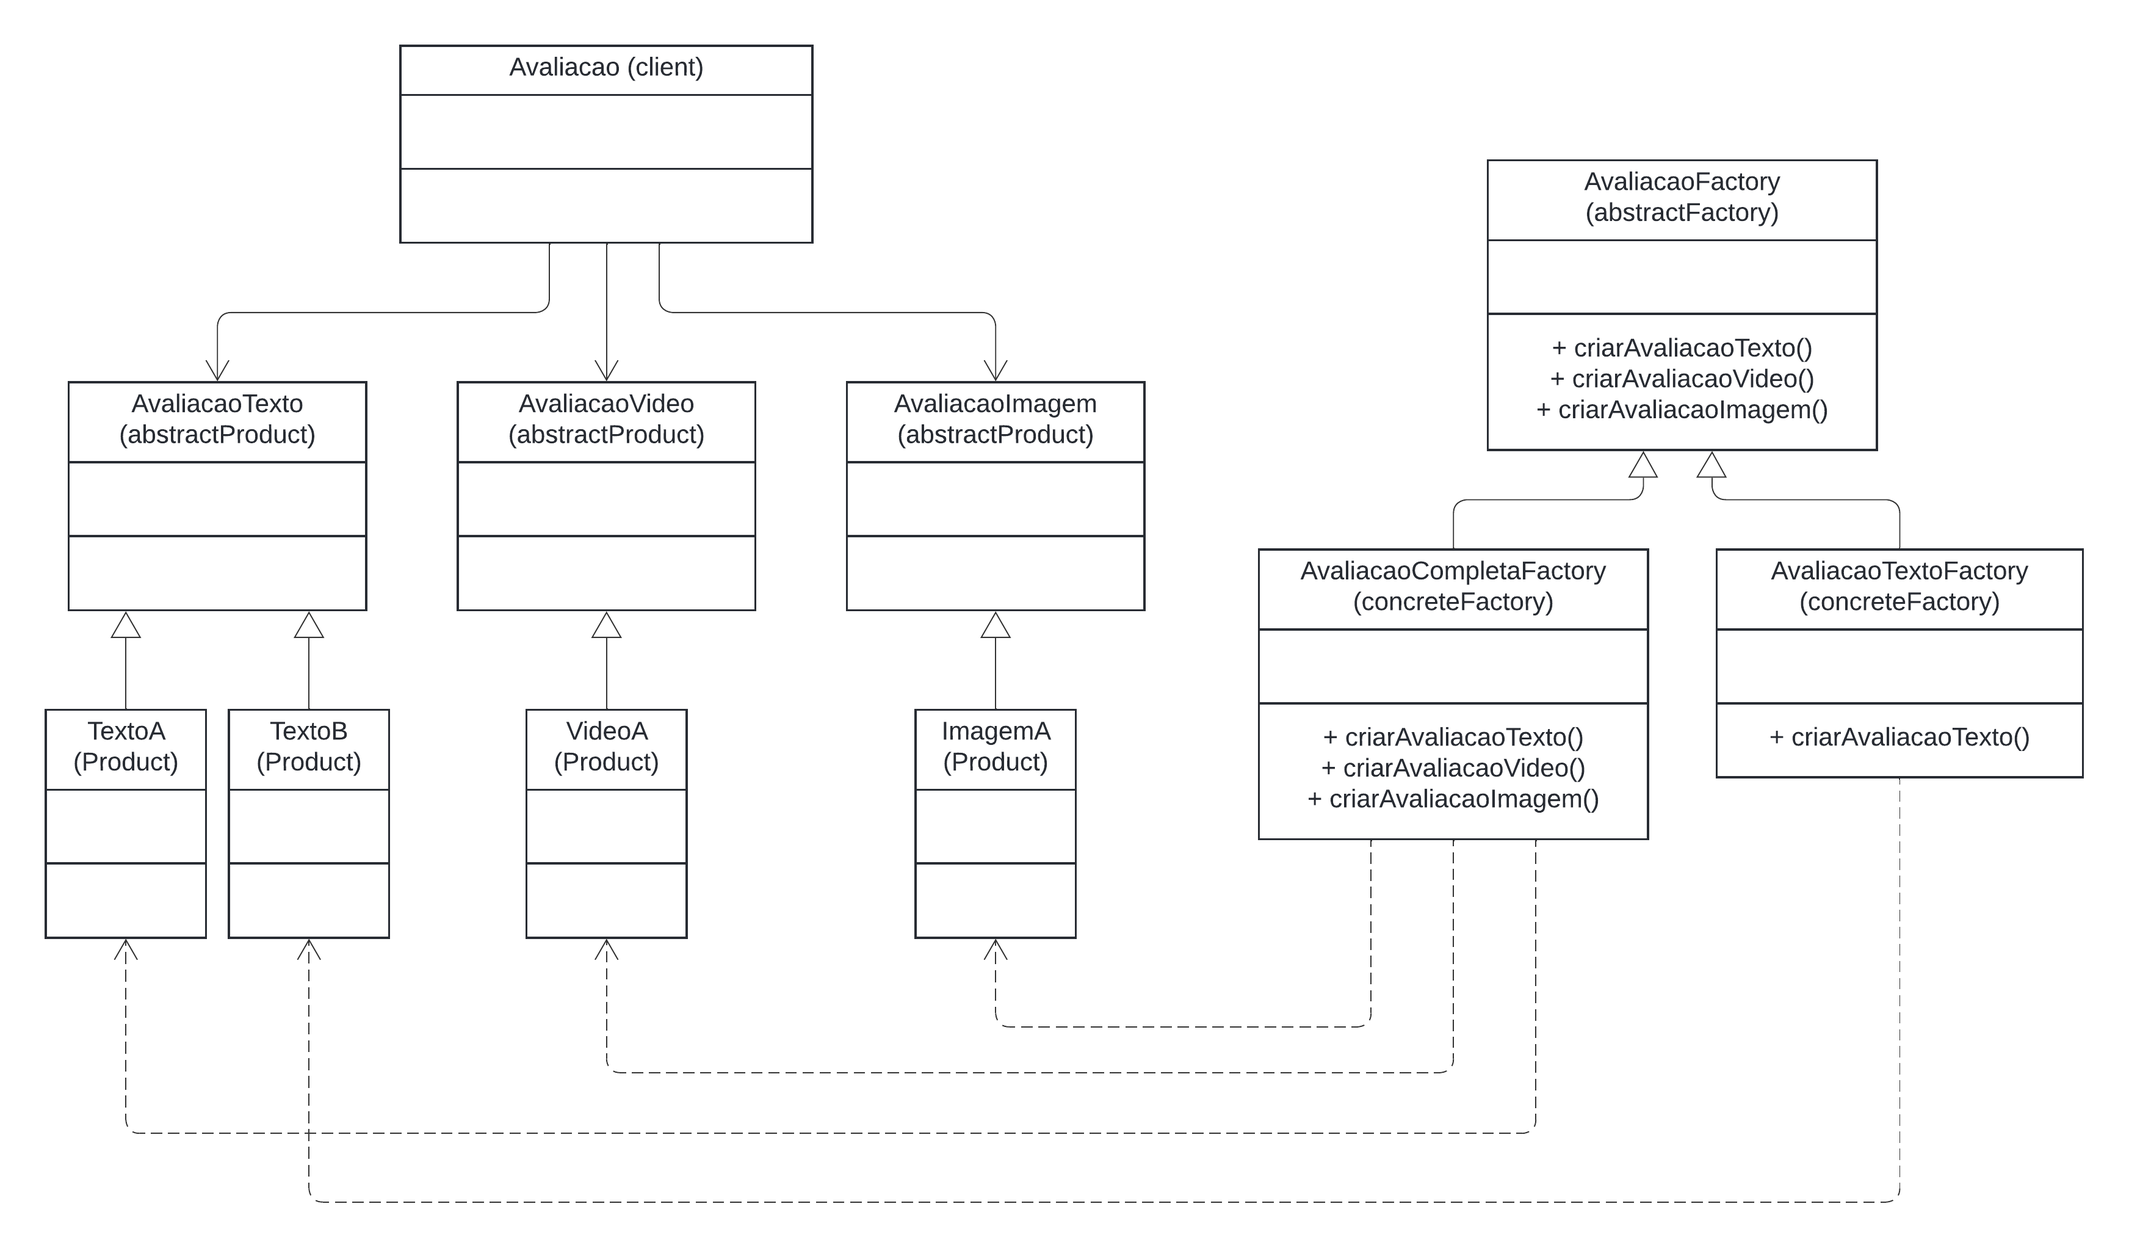
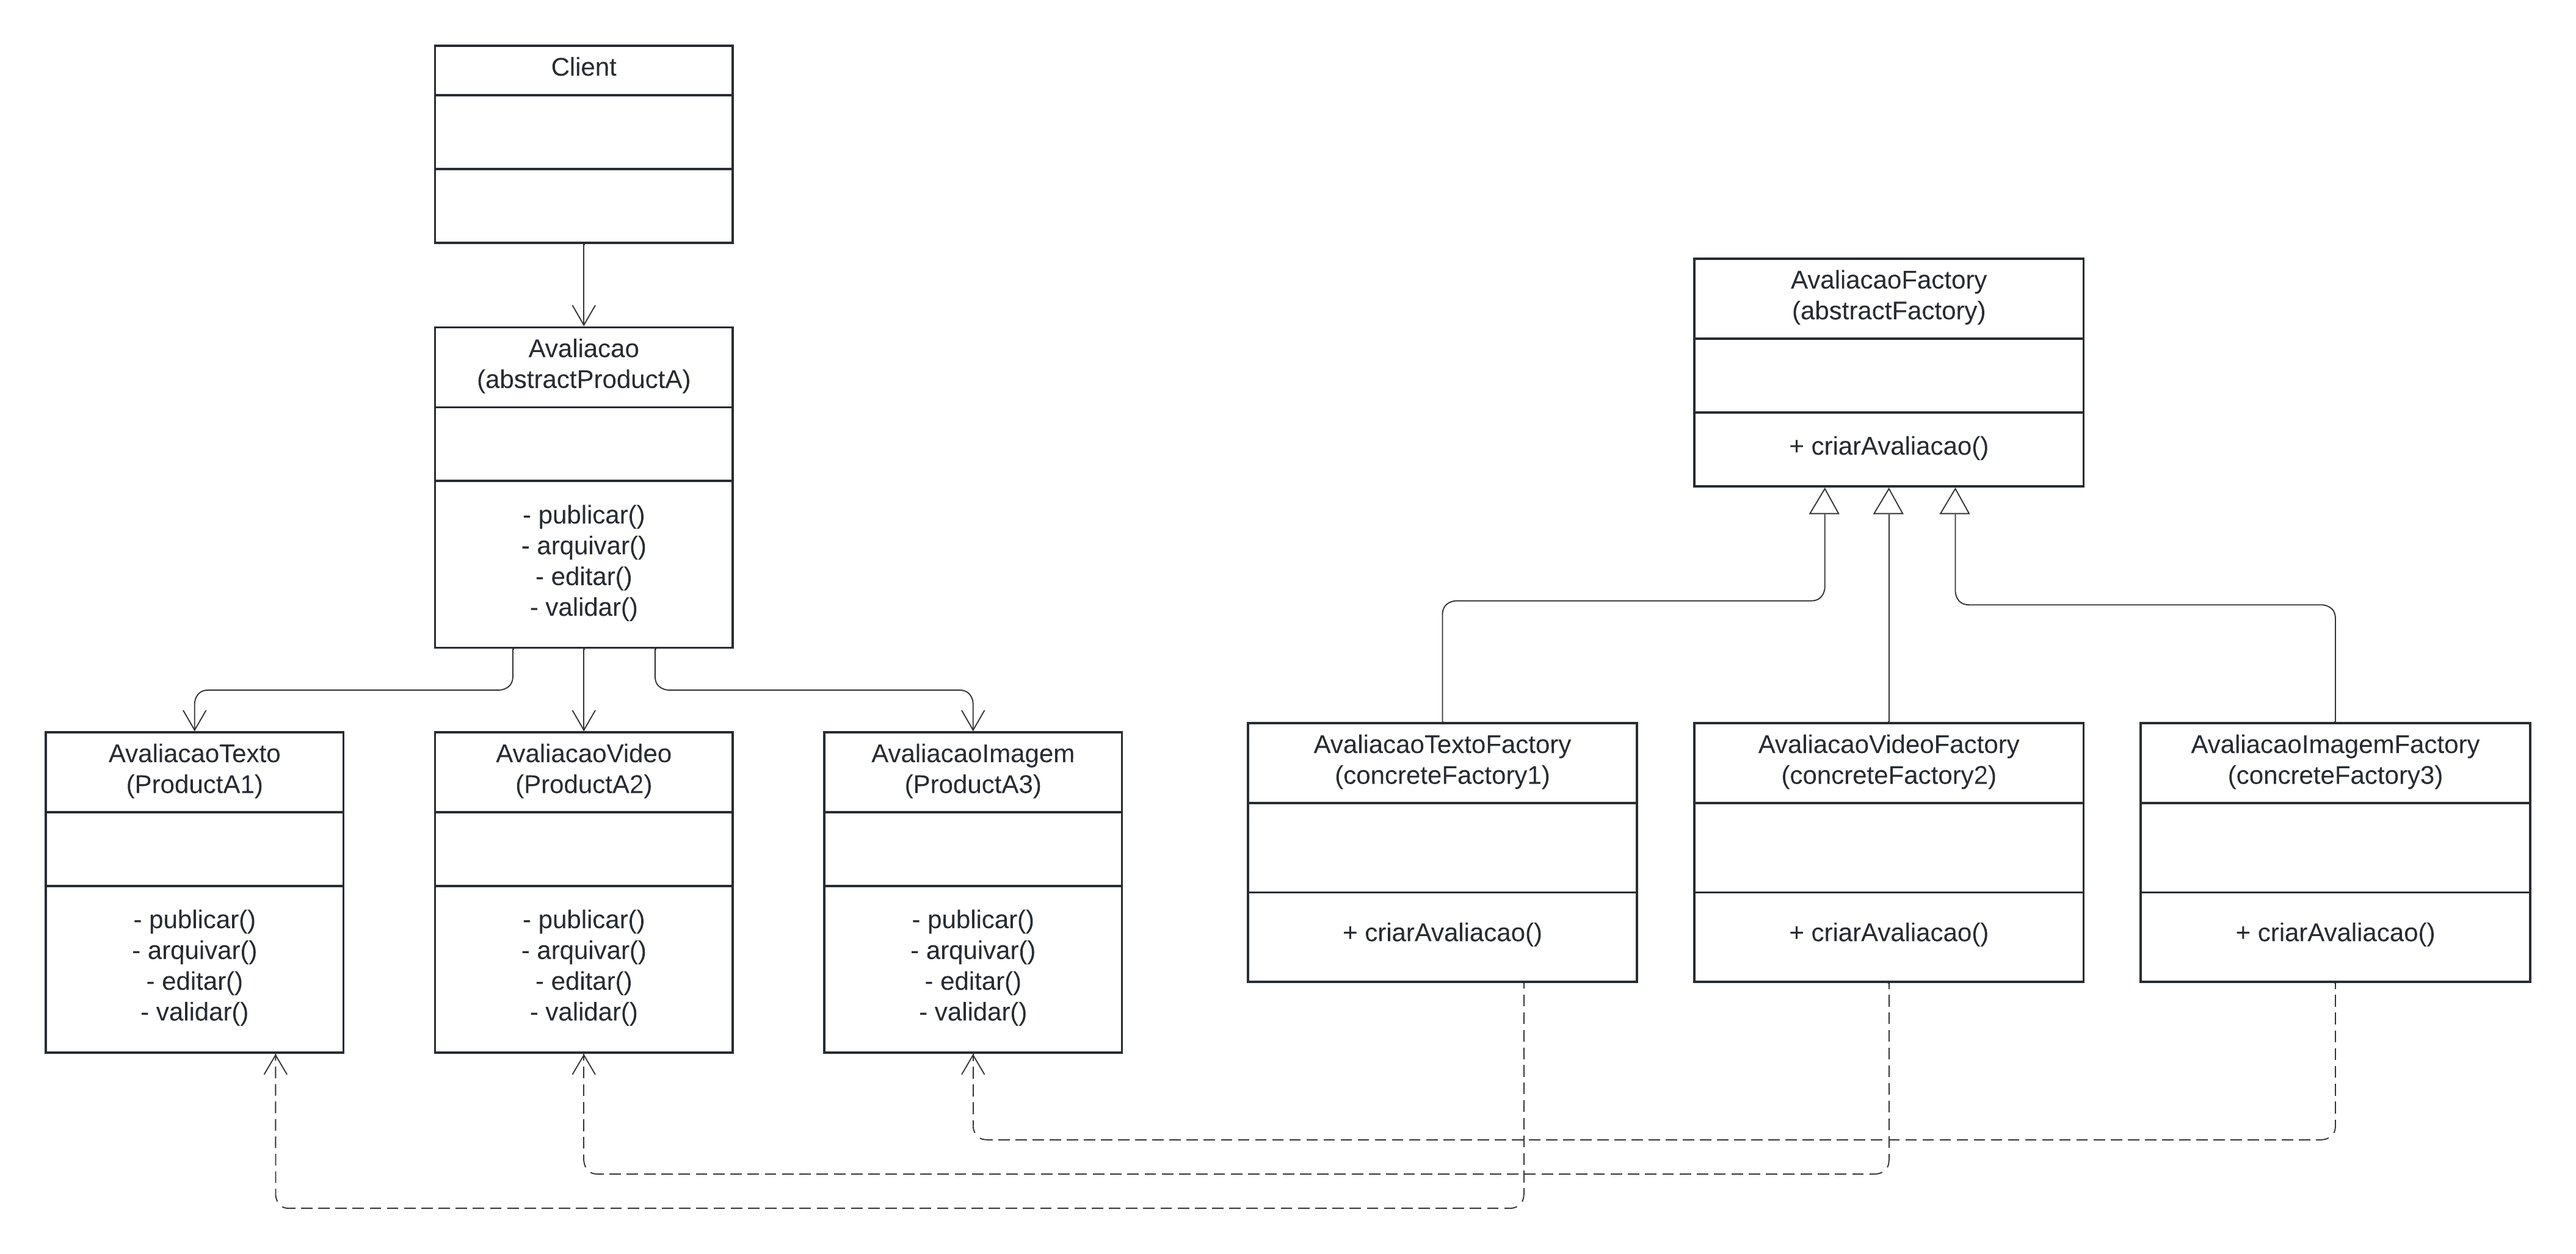
correcao da imagem do padrao de design abstract factory

diff --git a/docs/gofs-criacionais/abstract-factory.md b/docs/gofs-criacionais/abstract-factory.md
@@ -91,17 +91,18 @@ O uso do padrão de design criacional *Abstract Factory* se justifica principalm
 
 ## Modelagem
 
-Após a escolha do grupo, ficou decidido que o padrão de design *Abstract Factory* seria aplicado à criação de objetos relacionados aos tipos de avaliação do sistema Chef Indica, pois cada tipo de avaliação possui características distintas (texto, vídeo, imagem), mas compartilham a mesma interface base. Observou-se que se o sistema precisasse trocar o tipo de avaliação (por exemplo, migrar para avaliações exclusivamente por vídeo), bastaria mudar a fábrica utilizada, sem alterar o código cliente.
+Após a escolha do grupo, ficou decidido que o padrão de design *Abstract Factory* seria aplicado à criação de objetos relacionados aos tipos de avaliação do sistema Chef Indica, pois cada tipo de avaliação possui características distintas (texto, vídeo, imagem), mas compartilham a mesma interface base. Observou-se que se o sistema precisasse trocar o tipo de avaliação (por exemplo, migrar para avaliações exclusivamente por vídeo), bastaria mudar a fábrica utilizada, sem alterar o código cliente. Como nosso projeto é apenas didático, não foi possível fazer testes de desempenho para avaliar a real necessidade da aplicação desse padrão de design. Dessa forma, implementamos uma adaptação do padrão de design *Abstract Factory* no nosso projeto apenas a título de aprendizagem.
 
 * Implementação:
-    - Client: Avaliacao
-    - AbstractProducts:
+    - AbstractProductA: Avaliacao
+    - ProductA1, ProductA2 e ProductA3:
         . AvaliaçaoTexto, AvaliaçaoVideo, AvaliaçaoImagem.
     - AbstractFactory: AvaliacaoFactory
-        . Métodos: criarAvaliacaoTexto(), criarAvaliacaoVideo(), criarAvaliacaoImagem()
-    - ConcreteFactories:
-        . AvaliacaoCompletaFactory - fábrica que cria instâncias de todos os tipos.
-        . AvaliacaoTextoFactory - fábrica que cria instâncias apenas de textos, para ambientes com foco textual.
+        . Método: criarAvaliacao()
+    - ConcreteFactory1, ConcreteFactory2 e ConcreteFactory3:
+        . AvaliacaoTextoFactory - fábrica que cria instâncias de textos.
+        . AvaliacaoVideoFactory - fábrica que cria instâncias de vídeos.
+        . AvaliacaoImagemFactory - fábrica que cria instâncias de imagens.
 
 Na figura 1 é possível observar o modelo de domínio criado:
 
